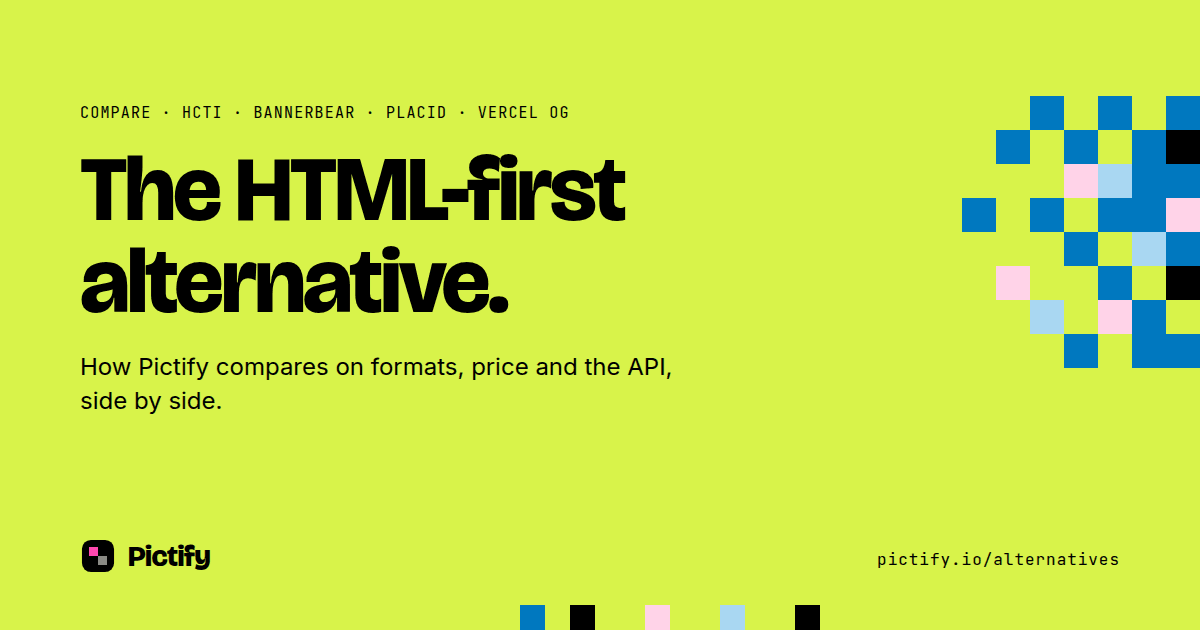
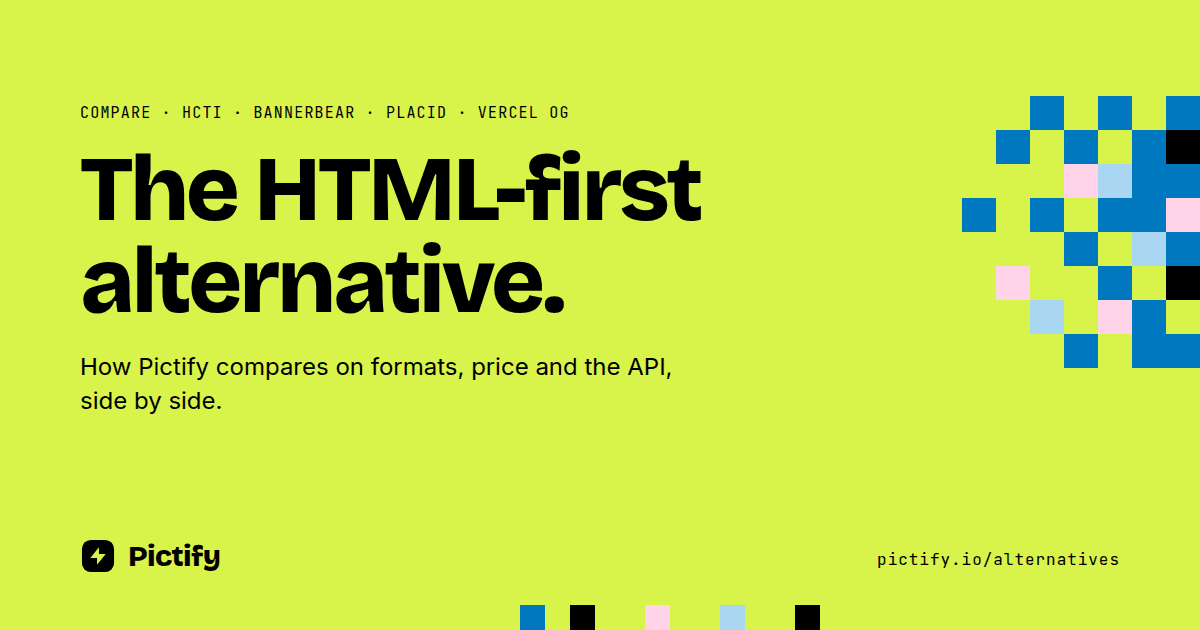
fix(seo): OG cards use the bolt mark and embedded Bricolage/Inter/JetBrains Mono
The first render fell back on the retired two-square mark and let the headline take the
font's large optical size. Fonts are now subsetted per page and embedded as data URIs
(instanced at opsz 14 to match the Paper card), so the renderer cannot substitute.

Changed region(s): [[0.0617, 0.2413, 0.5858, 0.5127], [0.0617, 0.8444, 0.185, 0.9048]]

diff --git a/scripts/og-v2.py b/scripts/og-v2.py
@@ -1,18 +1,18 @@
 import json, sys, html
 
 TEMPLATE = """<!doctype html><html><head><meta charset="utf-8">
-<link href="https://fonts.googleapis.com/css2?family=Bricolage+Grotesque:opsz,wght@12..96,800&family=Inter:wght@400;700&family=JetBrains+Mono:wght@400&display=swap" rel="stylesheet">
 <style>
+%(fonts)s
 *{box-sizing:border-box;margin:0;padding:0}
 #og{position:absolute;left:0;top:0;width:1200px;height:630px;overflow:hidden;background:#D8F34A;color:#000;-webkit-font-smoothing:antialiased}
 .copy{position:absolute;left:80px;top:104px;width:820px;display:flex;flex-direction:column;gap:22px}
 .eyebrow{font-family:'JetBrains Mono',monospace;font-size:15px;letter-spacing:.08em;line-height:18px;text-transform:uppercase}
-.h{font-family:'Bricolage Grotesque',sans-serif;font-weight:800;font-size:%(hsize)spx;line-height:%(hline)spx;letter-spacing:-.035em;font-variation-settings:'opsz' 96}
+.h{font-family:'Bricolage Grotesque',sans-serif;font-weight:800;font-size:%(hsize)spx;line-height:%(hline)spx;letter-spacing:-.035em}
 .sub{font-family:Inter,sans-serif;font-size:24px;line-height:34px;max-width:640px}
 .glyph{position:absolute;right:-68px;top:96px}
 .strip{position:absolute;left:520px;bottom:-25px}
 .logo{position:absolute;left:80px;bottom:56px;display:flex;align-items:center;gap:12px}
-.logo span{font-family:'Bricolage Grotesque',sans-serif;font-weight:700;font-size:30px;line-height:34px;letter-spacing:-.02em;font-variation-settings:'opsz' 96}
+.logo span{font-family:'Bricolage Grotesque',sans-serif;font-weight:800;font-size:30px;line-height:34px;letter-spacing:-.02em}
 .url{position:absolute;right:80px;bottom:60px;font-family:'JetBrains Mono',monospace;font-size:16px;letter-spacing:.06em;line-height:20px}
 </style></head><body><div id="og">
 <div class="copy"><div class="eyebrow">%(eyebrow)s</div><div class="h">%(headline)s</div><div class="sub">%(sub)s</div></div>
@@ -20,7 +20,7 @@ TEMPLATE = """<!doctype html><html><head><meta charset="utf-8">
 <rect x="20" y="60" width="20" height="20" fill="#0078BF"/><rect x="40" y="20" width="20" height="20" fill="#0078BF"/><rect x="40" y="100" width="20" height="20" fill="#FFD3E8"/><rect x="60" y="0" width="20" height="20" fill="#0078BF"/><rect x="60" y="60" width="20" height="20" fill="#0078BF"/><rect x="60" y="120" width="20" height="20" fill="#A9D7F2"/><rect x="80" y="20" width="20" height="20" fill="#0078BF"/><rect x="80" y="40" width="20" height="20" fill="#FFD3E8"/><rect x="80" y="80" width="20" height="20" fill="#0078BF"/><rect x="80" y="140" width="20" height="20" fill="#0078BF"/><rect x="100" y="0" width="20" height="20" fill="#0078BF"/><rect x="100" y="40" width="20" height="20" fill="#A9D7F2"/><rect x="100" y="60" width="20" height="20" fill="#0078BF"/><rect x="100" y="100" width="20" height="20" fill="#0078BF"/><rect x="100" y="120" width="20" height="20" fill="#FFD3E8"/><rect x="120" y="20" width="20" height="20" fill="#0078BF"/><rect x="120" y="40" width="20" height="20" fill="#0078BF"/><rect x="120" y="60" width="20" height="20" fill="#0078BF"/><rect x="120" y="80" width="20" height="20" fill="#A9D7F2"/><rect x="120" y="120" width="20" height="20" fill="#0078BF"/><rect x="120" y="140" width="20" height="20" fill="#0078BF"/><rect x="140" y="0" width="20" height="20" fill="#0078BF"/><rect x="140" y="20" width="20" height="20" fill="#000"/><rect x="140" y="40" width="20" height="20" fill="#0078BF"/><rect x="140" y="60" width="20" height="20" fill="#FFD3E8"/><rect x="140" y="80" width="20" height="20" fill="#0078BF"/><rect x="140" y="100" width="20" height="20" fill="#000"/><rect x="140" y="140" width="20" height="20" fill="#0078BF"/><rect x="160" y="0" width="20" height="20" fill="#000"/><rect x="160" y="20" width="20" height="20" fill="#0078BF"/><rect x="160" y="40" width="20" height="20" fill="#000"/><rect x="160" y="60" width="20" height="20" fill="#000"/><rect x="160" y="80" width="20" height="20" fill="#A9D7F2"/><rect x="160" y="100" width="20" height="20" fill="#000"/><rect x="160" y="120" width="20" height="20" fill="#0078BF"/><rect x="160" y="140" width="20" height="20" fill="#000"/><rect x="180" y="0" width="20" height="20" fill="#000"/><rect x="180" y="20" width="20" height="20" fill="#000"/><rect x="180" y="40" width="20" height="20" fill="#000"/><rect x="180" y="60" width="20" height="20" fill="#0078BF"/><rect x="180" y="80" width="20" height="20" fill="#000"/><rect x="180" y="100" width="20" height="20" fill="#000"/><rect x="180" y="120" width="20" height="20" fill="#000"/><rect x="180" y="140" width="20" height="20" fill="#000"/>
 </svg>
 <svg class="strip" width="300" height="50" viewBox="0 0 300 50" xmlns="http://www.w3.org/2000/svg"><rect x="0" y="0" width="25" height="25" fill="#0078BF"/><rect x="50" y="0" width="25" height="25" fill="#000"/><rect x="75" y="25" width="25" height="25" fill="#0078BF"/><rect x="125" y="0" width="25" height="25" fill="#FFD3E8"/><rect x="150" y="25" width="25" height="25" fill="#0078BF"/><rect x="200" y="0" width="25" height="25" fill="#A9D7F2"/><rect x="225" y="25" width="25" height="25" fill="#0078BF"/><rect x="275" y="0" width="25" height="25" fill="#000"/></svg>
-<div class="logo"><svg width="36" height="36" viewBox="0 0 28 28" xmlns="http://www.w3.org/2000/svg"><rect x="1.5" y="1.5" width="25" height="25" rx="7" fill="#000"/><rect x="7" y="7" width="7" height="7" fill="#FF48B0"/><rect x="14" y="14" width="7" height="7" fill="#8A8A85"/></svg><span>Pictify</span></div>
+<div class="logo"><svg width="36" height="36" viewBox="0 0 28 28" xmlns="http://www.w3.org/2000/svg"><rect x="1.5" y="1.5" width="25" height="25" rx="7" fill="#000"/><g transform="translate(5,5) scale(0.75)"><path d="M13 10V3L4 14h7v7l9-11h-7z" fill="#D8F34A"/></g></svg><span>Pictify</span></div>
 <div class="url">pictify.io%(path)s</div>
 </div></body></html>"""
 
@@ -37,5 +37,44 @@ PAGES = {
 
 name = sys.argv[1]
 p = {"hsize": 92, "hline": 92}; p.update(PAGES[name])
+import os, io, base64, re, urllib.request
+from fontTools import subset
+from fontTools.ttLib import TTFont
+from fontTools.varLib import instancer
+here = os.path.dirname(os.path.abspath(__file__))
+cache = os.path.join(here, "fonts-src")
+os.makedirs(cache, exist_ok=True)
+SRC = {
+  "Bricolage Grotesque": ("https://fonts.googleapis.com/css2?family=Bricolage+Grotesque:opsz,wght@12..96,800", 800, {"opsz": 14, "wght": 800}),
+  "Inter": ("https://fonts.googleapis.com/css2?family=Inter:wght@400", 400, {"wght": 400}),
+  "JetBrains Mono": ("https://fonts.googleapis.com/css2?family=JetBrains+Mono:wght@400", 400, {"wght": 400}),
+}
+UA = "Mozilla/5.0 (Macintosh; Intel Mac OS X 10_15_7) AppleWebKit/537.36 (KHTML, like Gecko) Chrome/120 Safari/537.36"
+def raw_font(fam):
+    fp = os.path.join(cache, fam.replace(" ", "-") + ".woff2")
+    if not os.path.exists(fp):
+        css = urllib.request.urlopen(urllib.request.Request(SRC[fam][0], headers={"User-Agent": UA})).read().decode()
+        for b in re.findall(r"@font-face \{(.*?)\}", css, re.S):
+            if "U+0000-00FF" in b:
+                url = re.search(r"url\((https://[^)]+)\)", b).group(1)
+                open(fp, "wb").write(urllib.request.urlopen(url).read()); break
+    return open(fp, "rb").read()
+def face(fam, text):
+    f = TTFont(io.BytesIO(raw_font(fam)))
+    if "fvar" in f:
+        have = {a.axisTag for a in f["fvar"].axes}
+        loc = {k: v for k, v in SRC[fam][2].items() if k in have}
+        if loc: f = instancer.instantiateVariableFont(f, loc)
+    o = subset.Options(); o.flavor = "woff2"; o.layout_features = ["kern"]; o.hinting = False
+    sub = subset.Subsetter(o); sub.populate(text=text); sub.subset(f)
+    buf = io.BytesIO(); f.flavor = "woff2"; f.save(buf)
+    return "@font-face{font-family:'%s';font-weight:%d;src:url(data:font/woff2;base64,%s) format('woff2')}" % (fam, SRC[fam][1], base64.b64encode(buf.getvalue()).decode())
+raw = PAGES[name]
+fonts = "\n".join([
+    face("Bricolage Grotesque", raw["headline"] + "Pictify"),
+    face("Inter", raw["sub"]),
+    face("JetBrains Mono", raw["eyebrow"].upper() + raw["eyebrow"] + "pictify.io" + raw["path"]),
+])
 p = {k: (html.escape(v) if isinstance(v, str) else v) for k, v in p.items()}
+p['fonts'] = fonts
 print(TEMPLATE % p)
